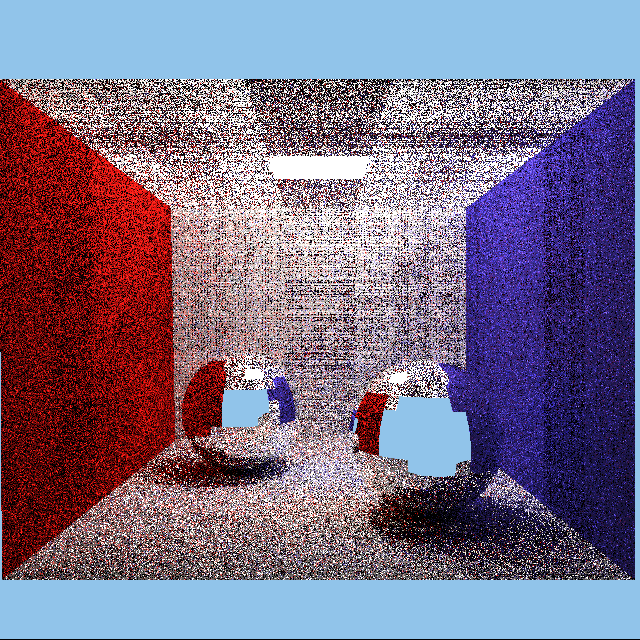
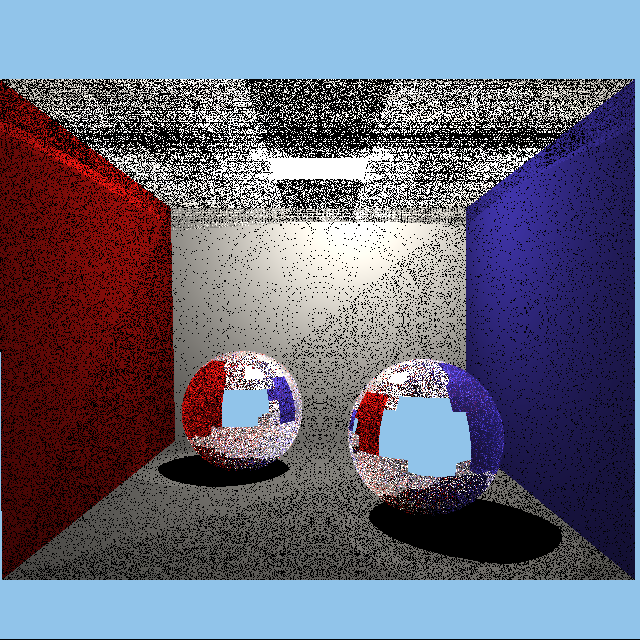
improved raytracing

diff --git a/VolumeRenderer/RayTracer/ScratchPixel1IntersectionHandler.cpp b/VolumeRenderer/RayTracer/ScratchPixel1IntersectionHandler.cpp
@@ -1,7 +1,8 @@
 #include "ScratchPixel1IntersectionHandler.h"
 
-bool ScratchPixel1IntersectionHandler::HandleIntersection(HandleIntersectionData *data, uint32_t depth){
-
+Vec3f ScratchPixel1IntersectionHandler::HandleIntersection(HandleIntersectionData *data, uint32_t depth, uint32_t reboundFactor)
+{
+	return Vec3f(0.0f);
 	//Si estoy intersecando el mismo objeto, lo ignoro
 	//if (data->previousObjectId == data->objectId)
 	//{
@@ -10,48 +11,48 @@ bool ScratchPixel1IntersectionHandler::HandleIntersection(HandleIntersectionData
 	//	return false;
 	//}
 	
-	auto material = data->sceneInfo->materials[data->sceneInfo->shapes[data->objectId].mesh.material_ids[0]];
+	//auto material = data->sceneInfo->materials[data->sceneInfo->shapes[data->objectId].mesh.material_ids[0]];
 
-	//participating media	
-	if (material.dissolve > 0) 
-	{
-		//exit intersection
-		if (data->previousObjectId == data->objectId) 
-		{
-			auto distance = data->tFar;
-			auto sigma_a = 1 - material.dissolve;
-			//for now we use the diffuse color of the object as the scattering color
-			auto scatteringColor = Vec3f(material.diffuse[0], material.diffuse[1], material.diffuse[2]);
-			auto transmission = exp(-distance * sigma_a);
+	////participating media	
+	//if (material.dissolve > 0) 
+	//{
+	//	//exit intersection
+	//	if (data->previousObjectId == data->objectId) 
+	//	{
+	//		auto distance = data->tFar;
+	//		auto sigma_a = 1 - material.dissolve;
+	//		//for now we use the diffuse color of the object as the scattering color
+	//		auto scatteringColor = Vec3f(material.diffuse[0], material.diffuse[1], material.diffuse[2]);
+	//		auto transmission = exp(-distance * sigma_a);
 
-			data->transmissionRemaining = transmission;
-			data->throughput = scatteringColor * (1 - transmission);
+	//		data->transmissionRemaining = transmission;
+	//		data->throughput = scatteringColor * (1 - transmission);
 
-			data->rayOrigin = data->hitPoint + data->rayDirection * 0.001;
-		}
+	//		data->rayOrigin = data->hitPoint + data->rayDirection * 0.001;
+	//	}
 
-		return false;
-	}
+	//	return false;
+	//}
 
-	//Superficie Especular
-	if (material.diffuse[0] == 0 && material.diffuse[1] == 0 && material.diffuse[2] == 0)
-	{
-		auto normal = Utils::normalize(data->hitNormal);
-		auto newDir = Utils::normalize(Utils::reflect(data->rayDirection, normal));
-						
-		data->rayOrigin = data->hitPoint + data->rayDirection * 0.001;
-		data->rayDirection = newDir;
+	////Superficie Especular
+	//if (material.diffuse[0] == 0 && material.diffuse[1] == 0 && material.diffuse[2] == 0)
+	//{
+	//	auto normal = Utils::normalize(data->hitNormal);
+	//	auto newDir = Utils::normalize(Utils::reflect(data->rayDirection, normal));
+	//					
+	//	data->rayOrigin = data->hitPoint + data->rayDirection * 0.001;
+	//	data->rayDirection = newDir;
 
-		return false;
-	}
+	//	return false;
+	//}
 
-	//Superficie Difusa
-	auto surfaceColor = Vec3f(material.diffuse[0], material.diffuse[1], material.diffuse[2]);
+	////Superficie Difusa
+	//auto surfaceColor = Vec3f(material.diffuse[0], material.diffuse[1], material.diffuse[2]);
 
-	if (data->transmissionRemaining > 0)
-		data->L_total_diffuse = surfaceColor * data->transmissionRemaining + data->throughput;
-	else
-		data->L_total_diffuse = surfaceColor;
+	//if (data->transmissionRemaining > 0)
+	//	data->L_total_diffuse = surfaceColor * data->transmissionRemaining + data->throughput;
+	//else
+	//	data->L_total_diffuse = surfaceColor;
 
-	return true;
+	//return true;
 }

diff --git a/VolumeRenderer/RayTracer/BasicIntersectionHandler.cpp b/VolumeRenderer/RayTracer/BasicIntersectionHandler.cpp
@@ -1,31 +1,31 @@
 #include "BasicIntersectionHandler.h"
 
-bool BasicIntersectionHandler::HandleIntersection(HandleIntersectionData *data, uint32_t depth){
-
+Vec3f BasicIntersectionHandler::HandleIntersection(HandleIntersectionData *data, uint32_t depth, uint32_t reboundFactor){
+	return Vec3f(0.0f);
 	//Si estoy intersecando el mismo objeto, lo ignoro
-	if (data->previousObjectId == data->objectId)
-	{
-		data->rayOrigin = data->hitPoint + data->rayDirection * 0.001;
-		
-		return false;
-	}
+	//if (data->previousObjectId == data->objectId)
+	//{
+	//	data->rayOrigin = data->hitPoint + data->rayDirection * 0.001;
+	//	
+	//	return false;
+	//}
 
-	auto material = data->sceneInfo->materials[data->sceneInfo->shapes[data->objectId].mesh.material_ids[0]];
+	//auto material = data->sceneInfo->materials[data->sceneInfo->shapes[data->objectId].mesh.material_ids[0]];
 
-	//Superficie Especular
-	if (material.diffuse[0] == 0 && material.diffuse[1] == 0 && material.diffuse[2] == 0)
-	{
-		auto normal = Utils::normalize(data->hitNormal);
-		auto newDir = Utils::normalize(Utils::reflect(data->rayDirection, normal));
-						
-		data->rayOrigin = data->hitPoint + data->rayDirection * 0.001;
-		data->rayDirection = newDir;
+	////Superficie Especular
+	//if (material.diffuse[0] == 0 && material.diffuse[1] == 0 && material.diffuse[2] == 0)
+	//{
+	//	auto normal = Utils::normalize(data->hitNormal);
+	//	auto newDir = Utils::normalize(Utils::reflect(data->rayDirection, normal));
+	//					
+	//	data->rayOrigin = data->hitPoint + data->rayDirection * 0.001;
+	//	data->rayDirection = newDir;
 
-		return false;
-	}
+	//	return false;
+	//}
 
-	//Superficie Difusa
-	data->L_total_diffuse = Vec3f(material.diffuse[0], material.diffuse[1], material.diffuse[2]);
+	////Superficie Difusa
+	//data->L_total_diffuse = Vec3f(material.diffuse[0], material.diffuse[1], material.diffuse[2]);
 
-	return true;
+	//return true;
 }

diff --git a/VolumeRenderer/RayTracer/Renderer.cpp b/VolumeRenderer/RayTracer/Renderer.cpp
@@ -82,10 +82,11 @@ void Renderer::fresnel(const Vec3f &I, const Vec3f &N, const float &ior, float &
 Vec3f Renderer::castRay(
 	BaseIntersectionHandler *intersectionHandler,
 	HandleIntersectionData *data,
-	uint32_t depth)
+	uint32_t depth, 
+	uint32_t reboundFactor)
 {
-	if (depth > data->options.maxDepth) {
-		return data->L_total_diffuse;
+	if (depth >= data->options.maxDepth) {
+		return Vec3f(0.0f);//data->L_total_diffuse;
 	}
 
 	struct RTCRayQueryContext context;
@@ -114,7 +115,7 @@ Vec3f Renderer::castRay(
 		data->tFar = rayhit.ray.tfar;		
 		
 		//if (intersectionHandler->HandleIntersection(data, depth)) {
-		intersectionHandler->HandleIntersection(data, depth);
+		return intersectionHandler->HandleIntersection(data, depth, reboundFactor);
 
 		//return data->L_total_diffuse;
 		//}
@@ -153,7 +154,7 @@ void Renderer::renderRay(int i, int j, Vec3f* &pix, Vec3f* orig, float imageAspe
 	data->L_total_diffuse = Vec3f(0.0f);
 	data->throughput = Vec3f(1.0f);
 
-	*(pix++) = castRay(intersectionHandler, data, 0);
+	*(pix++) = castRay(intersectionHandler, data, 0, 1);
 }
 
 void Renderer::renderPixel(int i, int j, Options &options,

diff --git a/VolumeRenderer/RayTracer/Renderer.h b/VolumeRenderer/RayTracer/Renderer.h
@@ -40,7 +40,7 @@ public:
 	static void saveFile(Vec3f * framebuffer, int height, int width, const char* fileName);
 	static Vec3f refract(const Vec3f & I, const Vec3f & N, const float & ior);
 	static void fresnel(const Vec3f & I, const Vec3f & N, const float & ior, float & kr);
-	static Vec3f castRay(BaseIntersectionHandler* intersectionHandler, HandleIntersectionData* intersectionData, uint32_t depth);
+	static Vec3f castRay(BaseIntersectionHandler* intersectionHandler, HandleIntersectionData* intersectionData, uint32_t depth, uint32_t reboundFactor);
 	static void renderRay(int i, int j, Vec3f * &pix, Vec3f * orig, float imageAspectRatio, float scale, BaseIntersectionHandler* intersectionHandler, HandleIntersectionData* data);
 	static void renderPartial(Vec3f* orig, Vec3f* pix, uint32_t fromHeight, uint32_t toHeight, const Options &options, SceneInfo* scene);
 	

diff --git a/VolumeRenderer/RayTracer/Utils/DirectLightSampler.cpp b/VolumeRenderer/RayTracer/Utils/DirectLightSampler.cpp
@@ -47,9 +47,13 @@ bool DirectLightSampler::SampleLight(Vec3f origin, Vec3f direction, Vec3f& irrad
 	rtcIntersect1(sceneInfo->scene, &rayhit);
 
 	//reached light
-	if (rayhit.hit.geomID != RTC_INVALID_GEOMETRY_ID &&
-		light.shapeIndex == sceneInfo->primitives[rayhit.hit.primID])
+	if (rayhit.hit.geomID != RTC_INVALID_GEOMETRY_ID)
 	{
+		auto hitPoint = rayhit.ray.tfar * direction + origin;
+
+		if (Utils::distance2(hitPoint, light.position) > 0.01)
+			return false;
+
 		auto material = sceneInfo->materials[sceneInfo->shapes[light.shapeIndex].mesh.material_ids[0]];
 
 		irradiance = Vec3f(material.emission[0], material.emission[1], material.emission[2]);

diff --git a/VolumeRenderer/RayTracer/SceneRenderer.cpp b/VolumeRenderer/RayTracer/SceneRenderer.cpp
@@ -54,7 +54,7 @@ void SceneRenderer::RenderScene(Options options)
 	SceneInfo* sceneInfo = SceneLoader::initializeScene(device, options);
 
 	Renderer::render(options, sceneInfo);
-	//Renderer::renderPixel(412, 431, options, sceneInfo);
+	//Renderer::renderPixel(84, 278, options, sceneInfo);
 
 	/* Though not strictly necessary in this example, you should
 	 * always make sure to release resources allocated through Embree. */

diff --git a/VolumeRenderer/RayTracer/ScratchPixel1IntersectionHandler.h b/VolumeRenderer/RayTracer/ScratchPixel1IntersectionHandler.h
@@ -9,7 +9,7 @@ class ScratchPixel1IntersectionHandler :
     public BaseIntersectionHandler
 {
 public:
-    virtual bool HandleIntersection(HandleIntersectionData* data, uint32_t depth);
+    virtual Vec3f HandleIntersection(HandleIntersectionData* data, uint32_t depth, uint32_t reboundFactor);
 };
 
 #endif // !VOLUMERENDERER_SCRATCH1INTERSECTIONHANDLER

diff --git a/VolumeRenderer/RayTracer/BasicIntersectionHandler.h b/VolumeRenderer/RayTracer/BasicIntersectionHandler.h
@@ -9,7 +9,7 @@ class BasicIntersectionHandler :
     public BaseIntersectionHandler
 {
 public:
-    virtual bool HandleIntersection(HandleIntersectionData* data, uint32_t depth);
+    virtual Vec3f HandleIntersection(HandleIntersectionData* data, uint32_t depth, uint32_t reboundFactor);
 };
 
 #endif // !VOLUMERENDERER_BASICINTERSECTIONHANDLER

diff --git a/VolumeRenderer/RayTracer/BaseIntersectionHandler.h b/VolumeRenderer/RayTracer/BaseIntersectionHandler.h
@@ -30,7 +30,7 @@ public:
 class BaseIntersectionHandler
 {
 public:
-	virtual bool HandleIntersection(HandleIntersectionData* data, uint32_t depth) = 0;
+	virtual Vec3f HandleIntersection(HandleIntersectionData* data, uint32_t depth, uint32_t reboundFactor) = 0;
 };
 
 #endif //VOLUMERENDERER_BASEINTERSECTIONHANDLER

diff --git a/VolumeRenderer/RayTracer/DiffuseIntersectionHandler.h b/VolumeRenderer/RayTracer/DiffuseIntersectionHandler.h
@@ -12,7 +12,7 @@ class DiffuseIntersectionHandler :
     public BaseIntersectionHandler
 {
 public:
-    virtual bool HandleIntersection(HandleIntersectionData* data, uint32_t depth);
+    virtual Vec3f HandleIntersection(HandleIntersectionData* data, uint32_t depth, uint32_t reboundFactor);
 };
 #endif
 
